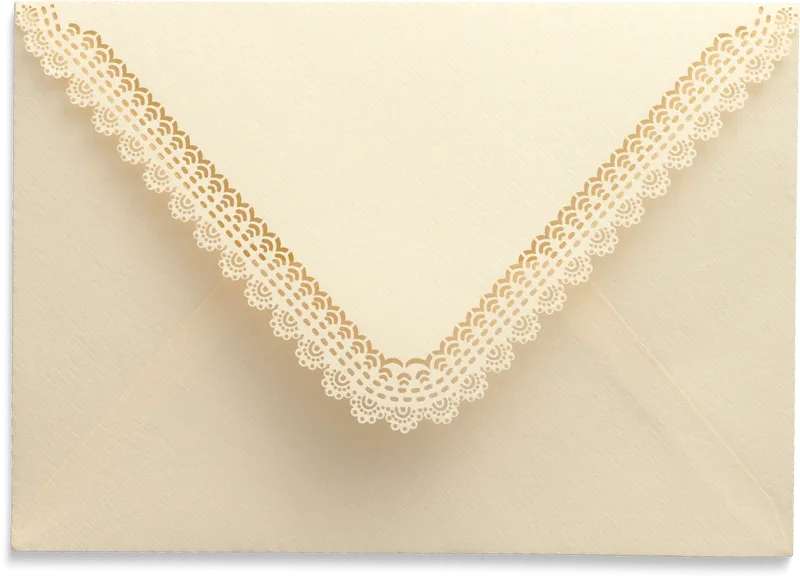
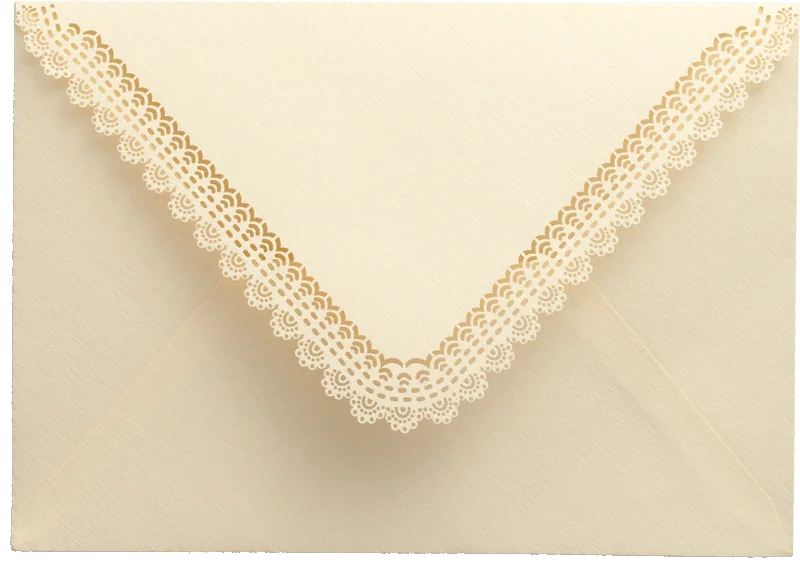
Keep the invite header English-only and soften the envelope box fringe.
Hardcode YOU'VE GOT INVITED FROM so language toggle never changes it, and clean envelope alpha so the rectangular matte is less visible.

Changed region(s): [[0.0, 0.0311, 1.0, 0.9948]]

diff --git a/src/lib/i18n.tsx b/src/lib/i18n.tsx
@@ -16,7 +16,6 @@ const STORAGE_KEY = "engagement-locale";
 
 const messages = {
   vi: {
-    inviteFrom: "YOU'VE GOT INVITED FROM",
     openLabel: "Nhấn để mở thiệp",
     openLabelEn: "Click to Open",
     skipLabel: "Bỏ qua hoạt ảnh",
@@ -81,7 +80,6 @@ const messages = {
     langEn: "English",
   },
   en: {
-    inviteFrom: "YOU'VE GOT INVITED FROM",
     openLabel: "Tap to open the invitation",
     openLabelEn: "Click to Open",
     skipLabel: "Skip animation",

diff --git a/src/components/EnvelopeOpening.tsx b/src/components/EnvelopeOpening.tsx
@@ -138,7 +138,7 @@ export function EnvelopeOpening({
         <p
           className={`${displayFont.className} text-[9px] uppercase tracking-[0.28em] text-[#f3e8d5] sm:text-[11px] sm:tracking-[0.42em]`}
         >
-          {t("inviteFrom")}
+          YOU&apos;VE GOT INVITED FROM
         </p>
         <h1
           className={`${scriptFont.className} mt-2 text-[clamp(2.4rem,11vw,4.75rem)] leading-[1.08] text-[#fff8ef]`}

diff --git a/src/app/globals.css b/src/app/globals.css
@@ -165,11 +165,11 @@ body::-webkit-scrollbar {
 }
 
 .envelope-shadow {
-  filter: drop-shadow(0 22px 50px rgba(0, 0, 0, 0.5));
+  filter: drop-shadow(0 18px 28px rgba(0, 0, 0, 0.35));
 }
 
 .envelope-open-shadow {
-  filter: drop-shadow(0 26px 48px rgba(0, 0, 0, 0.45));
+  filter: drop-shadow(0 18px 28px rgba(0, 0, 0, 0.35));
 }
 
 @media (prefers-reduced-motion: reduce) {
